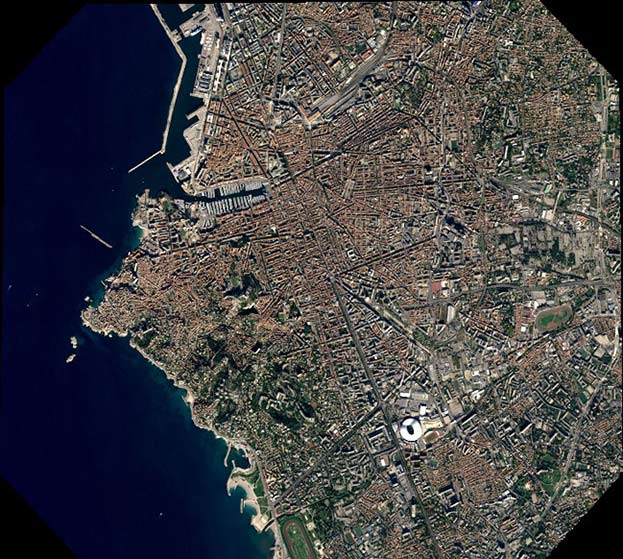
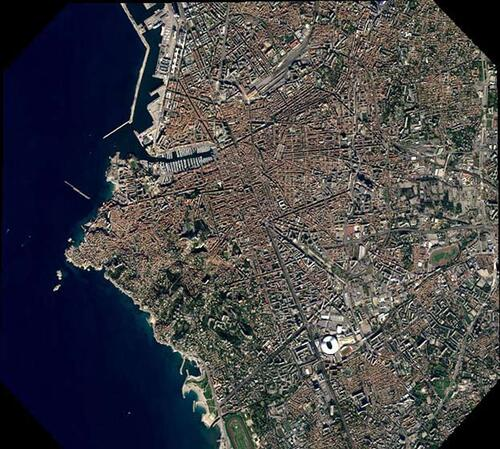
Changed size of some images.

diff --git a/index.html b/index.html
@@ -33,7 +33,7 @@
 
 </head>
 
-<body id="page-top" onload="reviewingVis('reviewing.json'); getPublicationsAuthor('your-hal-id');">
+<body id="page-top" onload="reviewingVis('reviewing.json'); getPublicationsAuthor('christian-staron');">
 
   <nav class="navbar navbar-expand-lg navbar-dark bg-primary fixed-top" id="sideNav">
     <select class="selectpicker" data-width="fit">
@@ -75,12 +75,11 @@
           <a class="nav-link js-scroll-trigger lang-en" href="#education">Education</a>
           <a class="nav-link js-scroll-trigger lang-fr" href="#education">Formation</a>
         </li>
-        <!--
         <li class="nav-item">
           <a class="nav-link js-scroll-trigger lang-en" href="#publications">Publications</a>
           <a class="nav-link js-scroll-trigger lang-fr" href="#publications">Publications</a>
         </li>
-        -->
+
         <li class="nav-item">
           <a class="nav-link js-scroll-trigger lang-en" href="#projects">Projects</a>
           <a class="nav-link js-scroll-trigger lang-fr" href="#projects">Projets</a>
@@ -110,7 +109,7 @@
           Ingénieur de recherche
         </h1>
         <div class="subheading mb-5">73 avenue de Paris · 94165 Saint-Mandé CEDEX · (+33)1 43 98 62 37 ·
-          <a><!--anti@spam.fr!-->christian.staron@ign.fr</a>
+          <a>chris<!--anti@spam.fr!-->tian.staron@ign.fr</a>
         </div>
         <p class="lead mb-5 lang-en">Member of UMR <a href="https://www.umr-lastig.fr/">Lastig</a></p>
         <p class="lead mb-5 lang-en">Member of the <a href="https://www.umr-lastig.fr/acte">ACTE</a> research team</p>
@@ -167,21 +166,21 @@
         <hr class="star-dark mb-5">
         <div class="row">
           <article class="col-md-6 col-lg-4">
-								<div class="portfolio-item d-block mx-auto">
-									<img class="img-fluid" src="img/pleiades-image-marseille.jpeg" alt="" />
-									<div class="portfolio-desc d-flex align-center position-absolute h-100 w-100">
-										<div class="folio-info my-auto w-100 text-center">
-											<h5 class="lang-en">Satellite imagery</h5>
-                                            <h5 class="lang-fr">Imagerie satellitaire</h5>
-										</div>
-									</div>
-								</div>
+          <div class="portfolio-item d-block mx-auto">
+              <img class="img-fluid" src="img/pleiades-image-marseille.jpeg" alt="" />
+              <div class="portfolio-desc d-flex align-center position-absolute h-100 w-100">
+                  <div class="folio-info my-auto w-100 text-center">
+                      <h5 class="lang-en">Satellite imagery</h5>
+                      <h5 class="lang-fr">Imagerie satellitaire</h5>
+                  </div>
+              </div>
+          </div>
           </article>
           <div class="col-md-6 col-lg-4">
                 <div class="portfolio-item d-block mx-auto">
                   <img class="img-fluid" src="img/faille_sismique.jpg" alt="" />
                   <div class="portfolio-desc align-center position-absolute h-100 w-100">
-                    <div class="folio-info w-100 text-center">
+                    <div class="folio-info my-auto w-100 text-center">
                       <h5 class="lang-en">Earth displacement due to seismic faults</h5>
                       <h5 class="lang-fr">Déplacement des sols à cause de failles sismiques</h5>
                     </div>
@@ -440,7 +439,7 @@
     <section class="resume-section p-3 p-lg-5 d-flex align-items-center" id="publications">
       <div class="w-100">
         <h2 class="mb-5">Publications</h2>
-        <!--
+
         <span id="pubACL"><div class="subheading mb-3 mt-3">[ACL] Journals</div></span>
         <span id="pubACLN"><div class="subheading mb-3 mt-3">[ACLN] Journals</div></span>
         <span id="pubASCL"><div class="subheading mb-3 mt-3">[ASCL] Others</div></span>
@@ -454,12 +453,12 @@
         <span id="pubTH"><div class="subheading mb-3 mt-3">[TH] Dissertations</div></span>
         <span id="pubINV"><div class="subheading mb-3 mt-3">[INV] Invited Talks</div></span>
         <span id="pubPV"><div class="subheading mb-3 mt-3">[PV] Popularization</div></span>
-        -->
+
         <!-- provide a subset of the publications based on a keyword -->
         <!--
         <span id="pubGeneralisation"><div class="subheading mb-3 mt-3">Généralisation</div></span>
-	<script> getKeywordPublicationsAuthorStartYear('guillaume-touya', 'Généralisation', 2006, "pubGeneralisation"); </script>
-        -->
+	    <script> getKeywordPublicationsAuthorStartYear('guillaume-touya', 'Généralisation', 2006, "pubGeneralisation"); </script>
+      -->
       </div>
     </section>
 
@@ -491,7 +490,7 @@
           <div class="col-md-4">
             <div class="project">
               <div class="icon-holder">
-                <img src="img/Logo_MicMac.png" alt="" class="icon">
+                <img src="img/icons/Logo_MicMac.png" alt="" class="icon">
               </div>
               <h4 class="heading lang-en">MicMac development</h4>
               <h4 class="heading lang-fr">Développement de MicMac</h4>
@@ -502,12 +501,12 @@
           <div class="col-md-4">
             <div class="project">
               <div class="icon-holder">
-                <img src="img/tokamak-west.jpeg" alt="" class="icon">
+                <img src="img/icons/tokamak-west.jpeg" alt="" class="icon">
               </div>
               <h4 class="heading lang-en">Automatised protection of tokamak WEST</h4>
               <h4 class="heading lang-fr">Protection automatisée du tokamak WEST</h4>
               <p class="description lang-en">Participation to development of an automatic processing pipeline for hot spot detection on tokamak WEST's thermal shield.</p>
-              <p class="description lang-fr">Participation au développement d'un d'un chaîne de traitement automatisée pour le traitement des points chauds présents sur le bouclier thermique du tokamak WEST.</p>
+              <p class="description lang-fr">Participation au développement de la chaîne de traitement automatisée des points chauds sur le bouclier thermique du tokamak WEST.</p>
             </div>
           </div>
         </div>

diff --git a/css/extras.css b/css/extras.css
@@ -16,6 +16,10 @@
   text-decoration: underline;
 }
 
+.author#christian-staron span {
+    text-decoration: underline;
+}
+
 .author:not(:last-child):after {
   content: ", ";
 }
